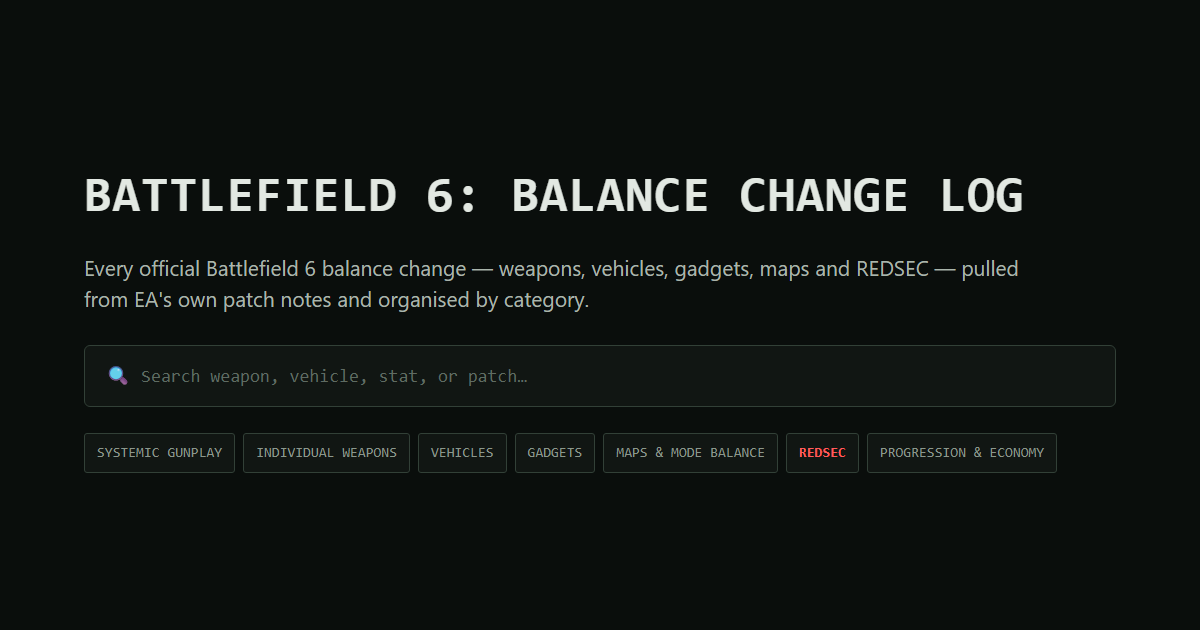
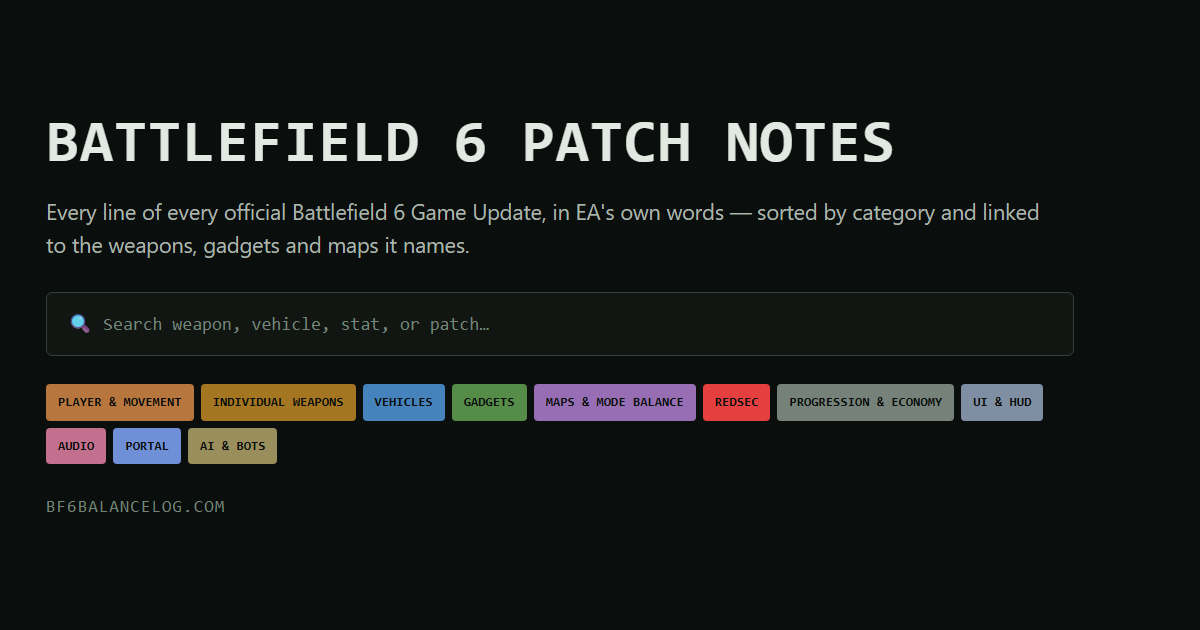
Rewrite the stale header and regenerate the social card
The header was still describing the old site on the live page. It claimed
"bug fixes, UI, cosmetics, audio and Portal-only items are condensed into a
collapsed Everything else section", which stopped being true when those became
their own categories; it said "Dev-team commentary is paraphrased" when it is
now quoted verbatim; the h1 read "Balance Change Log" while the title tag said
Patch Notes; and it advertised "1.0.1.0 - 1.4.1.0 (14 updates)" and "Compiled
Jul 29, 2026" two patches later.

The counts now generate from data/patch-index.json into a marker region, so the
version range, date window and line count cannot rot again. Any number that has
to be retyped when a patch ships eventually will not be.

Social card re-rendered from the new page. Two Chrome quirks cost time and are
now written into the runbook: it fails silently when told to --screenshot
straight into the repo, and it returns before the PNG finishes writing, so a
copy fired immediately lands the previous render. The card also needed the chip
row to wrap - 11 categories no longer fit on one line - and gained the domain,
since a card shared into Discord otherwise never says where it goes.

Changed region(s): [[0.0308, 0.181, 0.8942, 0.754], [0.0308, 0.7841, 0.185, 0.8143], [0.8017, 0.4222, 0.8633, 0.4524]]

diff --git a/index.html b/index.html
@@ -675,14 +675,16 @@ html{-webkit-text-size-adjust:100%}
 <label for="treeToggle" class="treeBtn">&#9776; Browse database</label>
 
 <header class="top">
-<div class="meta-row"><span><b>SCOPE</b> Weapon / Vehicle / Gadget / Mode balance changes shown in full; bug fixes, UI, cosmetics, audio, and Portal-only items are condensed into a collapsed "Everything else" section per patch, tucked away but searchable</span></div>
-<h1>Battlefield 6: Balance Change Log</h1>
-<p class="sub">Every balance-relevant change from every official Battlefield 6 Game Update, launch (Oct 2025) through Update 1.4.1.0 (Jul 2026), pulled from EA's own patch note pages and organized by category. Numbers are stated exactly as published. Dev-team commentary is paraphrased; nothing is invented.</p>
+<div class="meta-row"><span><b>SCOPE</b> Every line of every official Game Update, quoted from EA and sorted into a category &mdash; weapons, vehicles, gadgets, maps, REDSEC, progression, UI, audio, Portal and AI. Nothing summarized, nothing left out</span></div>
+<h1>Battlefield 6 Patch Notes</h1>
+<p class="sub">Every line of every official Battlefield 6 Game Update, in EA's own words, sorted by category and linked to the weapons, gadgets and maps it names. Search every update at once, or open any patch to read it straight through.</p>
+<!-- PATCHES:header:START -->
 <div class="meta-row">
-<span><b>Patches covered</b> 1.0.1.0 – 1.4.1.0 (14 updates)</span>
-<span><b>Window</b> Oct 9, 2025 – Jul 16, 2026</span>
-<span><b>Compiled</b> Jul 29, 2026</span>
+<span><b>Patches covered</b> 1.0.1.0 &ndash; 1.4.1.5 (15 updates)</span>
+<span><b>Window</b> Oct 9, 2025 &ndash; Aug 3, 2026</span>
+<span><b>Lines logged</b> 2,894, every one quoted from EA</span>
 </div>
+<!-- PATCHES:header:END -->
 </header>
 
 <div class="searchbar">

diff --git a/scripts/render_patches.py b/scripts/render_patches.py
@@ -287,6 +287,30 @@ def full_patch_payload(by_version_all):
     return payload
 
 
+def render_header(by_version_all):
+    """The header's counts and date window.
+
+    Generated because it rotted: the page shipped "1.0.1.0 - 1.4.1.0 (14
+    updates)" and "Compiled Jul 29, 2026" for a while after 1.4.1.5 landed. Any
+    number that has to be retyped when a patch ships will eventually be wrong.
+    """
+    patches = patch_index()
+    if not patches:
+        return ""
+    ordered = sorted(patches, key=lambda p: version_key(p["version"]))
+    oldest, newest = ordered[0], ordered[-1]
+    lines = sum(len(v) for v in by_version_all.values())
+    return (
+        '<div class="meta-row">\n'
+        '<span><b>Patches covered</b> %s &ndash; %s (%d update%s)</span>\n'
+        '<span><b>Window</b> %s &ndash; %s</span>\n'
+        '<span><b>Lines logged</b> %s, every one quoted from EA</span>\n'
+        '</div>'
+        % (esc(oldest["version"]), esc(newest["version"]), len(patches),
+           "" if len(patches) == 1 else "s",
+           esc(oldest["posted"]), esc(newest["posted"]), format(lines, ",")))
+
+
 def render_index(by_version_all):
     """The Patch Index table body: a row per update, each followed by an empty
     hidden row the browser fills from data/patch-full.json on first expand.
@@ -363,6 +387,7 @@ def main():
         updated = inject(updated, cat, body)
 
     by_version_all = load_by_version()
+    updated = inject(updated, "header", render_header(by_version_all))
     updated = inject(updated, "index", render_index(by_version_all))
     full_json = json.dumps(full_patch_payload(by_version_all),
                            ensure_ascii=False, separators=(",", ":")) + "\n"
